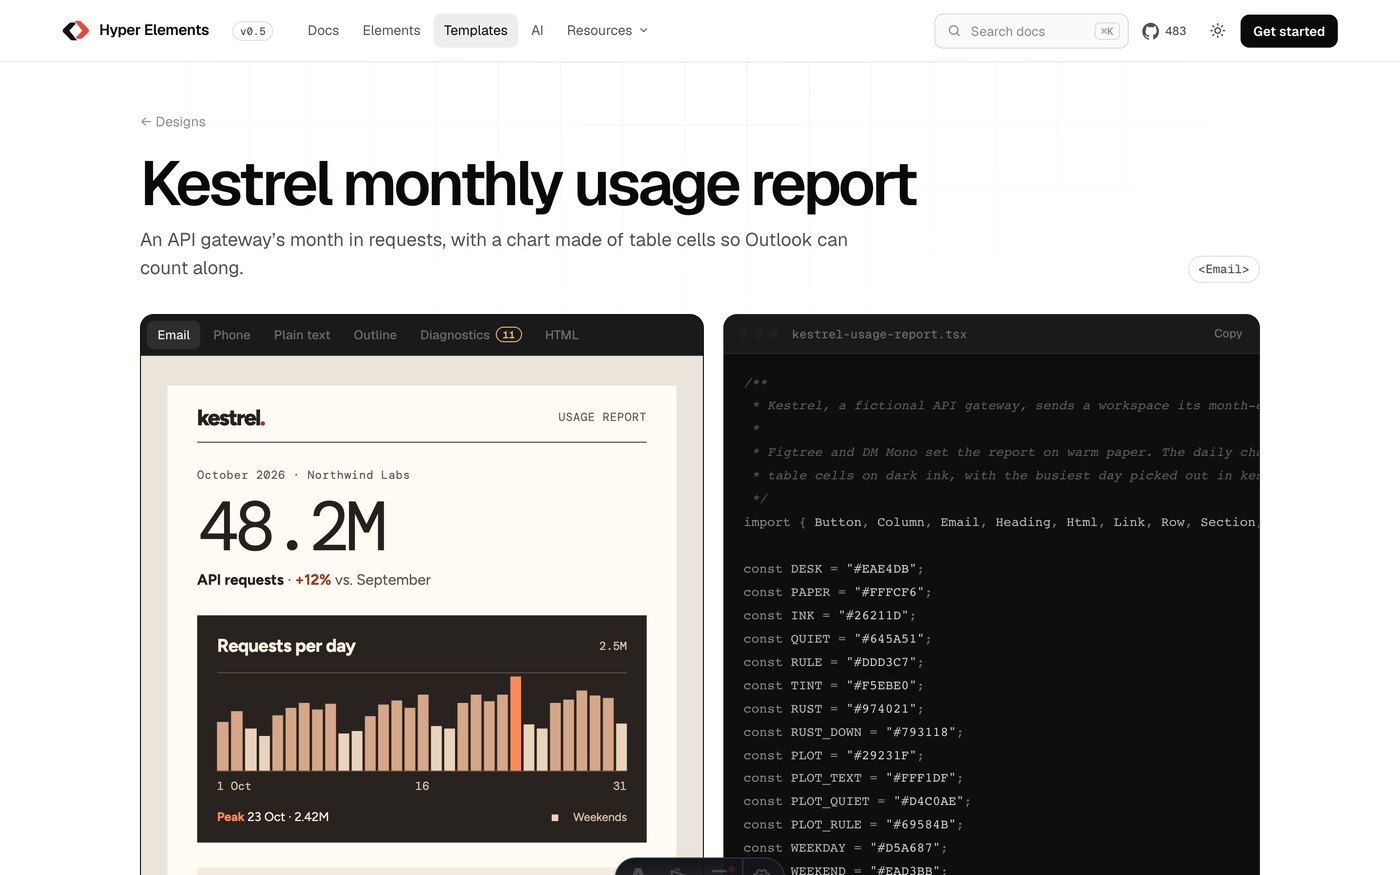
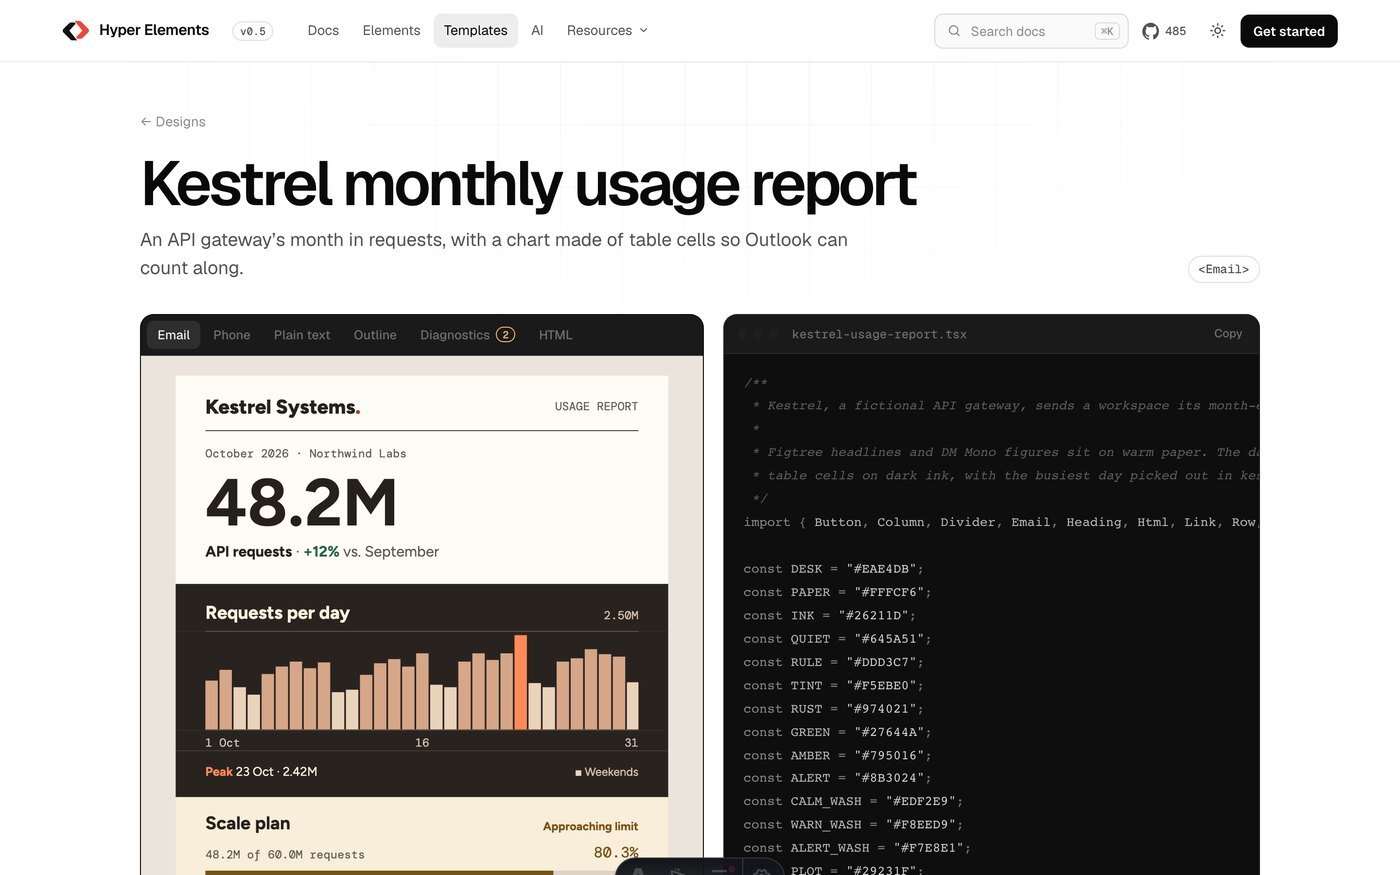
Gallery proof: rendered unchanged by the Hyper Elements site's own generator

diff --git a/README.md b/README.md
@@ -110,7 +110,13 @@ The two build notes cover web-font and phone-style support in some clients. Fall
 
 ## Add it to the gallery
 
-Copy [`src/kestrel-usage-report.tsx`](src/kestrel-usage-report.tsx) to `apps/website/examples/templates/`. It has the gallery’s `meta` and renders with no props.
+Copy [`src/kestrel-usage-report.tsx`](src/kestrel-usage-report.tsx) to `apps/website/examples/templates/`. It has the gallery's `meta` and renders with no props.
+
+We tested exactly that: the file, unchanged, in a local clone of the Hyper Elements site, through the site's own
+generator (`pnpm generate`) and dev server. It rendered with 2 notes, both `info`: web fonts don't load in some email clients, and some clients keep desktop styles on phones, and appears on `/templates/kestrel-usage-report` beside the
+official designs:
+
+![The design on its page in a local build of the Hyper Elements template gallery, with its preview and source.](docs/in-the-gallery.jpg)
 
 ## License
 
